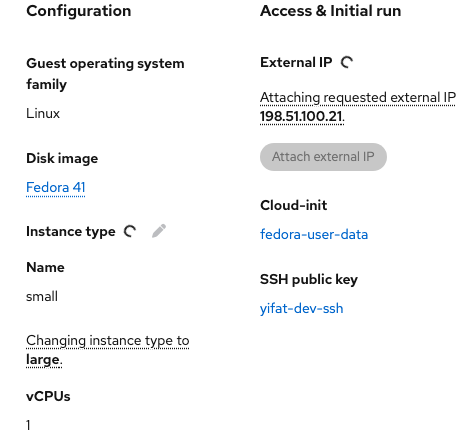
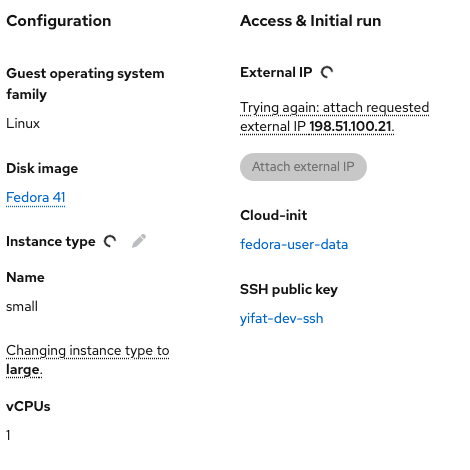
OSAC-7158: refresh retry screenshots and mockup links
Assisted-by: Cursor <cursoragent@cursor.com>

diff --git a/docs/vm-overview-ux-handoff.md b/docs/vm-overview-ux-handoff.md
@@ -3,7 +3,7 @@
 Contact: Yifat Friman Menchik, UXD  
 Google Doc: [VM Overview](https://docs.google.com/document/d/1Y8hjgE924owve0VXA3rkKqTYuB4sXKif8KhXyFL3hyQ/edit)  
 OSAC-7158 Google Doc: [VM configuration operations](https://docs.google.com/document/d/1KkHVqjNJ4lZl40X8aE1v589jDd7ilAle9NnaV13DIr4/edit)
-Interactive mocks: [0.4](https://osac-project.github.io/osac-ux/vmaas-ux-prototype-v0.4.html?v=c6c0274&role=admin&vm=indigo-quokka-89) · [0.5](https://osac-project.github.io/osac-ux/vmaas-ux-prototype.html?v=c15cd6a&role=admin&vm=indigo-quokka-89)
+Interactive mocks: [0.4](https://osac-project.github.io/osac-ux/vmaas-ux-prototype-v0.4.html?v=c6c0274&role=admin&vm=indigo-quokka-89) · [0.5](https://osac-project.github.io/osac-ux/vmaas-ux-prototype.html?v=ad7b00d&role=admin&vm=indigo-quokka-89)
 
 VM Overview shows the active instance type, CPU, and memory. Editing the instance type opens the name-first, two-line picker: each option has the resource name above CPU, memory, GPU count and readable model when present, and rate. Omit PCI hardware IDs from visible labels. The GPU specification still determines which resize targets are compatible. See the [resize handoff](osac-4281-vm-resize-handoff.md).
 
@@ -13,7 +13,7 @@ The Overview **Status** row shows the VM power state only. Keep active instance 
 
 ![Version 0.5 matching Instance type and External IP progress](screenshots/latest-ux/vm-config-aligned-progress-0.5-crop.png)
 
-The [scheduled-retry example](https://osac-project.github.io/osac-ux/vmaas-ux-prototype.html?v=c15cd6a&role=admin&vm=rhel-retry-cedar-29) keeps both targets in context, disables competing actions, and omits spinners until the next attempt begins.
+The [scheduled-retry example](https://osac-project.github.io/osac-ux/vmaas-ux-prototype.html?v=ad7b00d&role=admin&vm=rhel-retry-cedar-29) keeps both targets in context, disables competing actions, and omits spinners until the next attempt begins.
 
 ![Version 0.5 scheduled retry without active spinners](screenshots/latest-ux/vm-config-retry-scheduled-0.5-crop.png)
 
@@ -21,7 +21,7 @@ The [scheduled-retry example](https://osac-project.github.io/osac-ux/vmaas-ux-pr
 
 ![Version 0.5 failure alert and Resize again action](screenshots/latest-ux/vm-config-failure-0.5.png)
 
-The [ubuntu-copper-ibis-31 example](https://osac-project.github.io/osac-ux/vmaas-ux-prototype.html?v=c15cd6a&role=admin&vm=ubuntu-copper-ibis-31) combines a failed resize with external-IP attachment still running. The top alert covers the resize failure and offers **Resize again**; IP progress and its disabled Attach button stay beside External IP. In lists and cards, **Changes need attention** takes precedence, while the popover names both operations.
+The [ubuntu-copper-ibis-31 example](https://osac-project.github.io/osac-ux/vmaas-ux-prototype.html?v=ad7b00d&role=admin&vm=ubuntu-copper-ibis-31) combines a failed resize with external-IP attachment still running. The top alert covers the resize failure and offers **Resize again**; IP progress and its disabled Attach button stay beside External IP. In lists and cards, **Changes need attention** takes precedence, while the popover names both operations.
 
 ![Version 0.5 failed resize and active external-IP attachment](screenshots/latest-ux/vm-config-mixed-0.5.png)
 
@@ -37,11 +37,11 @@ Use three plain-language states for each operation in Details and the list/card 
 
 When the service supplies a safe reason for the preceding failure, show **Previous attempt failed: [reason]** in the operation popover. Show a retry attempt number only while that retry runs and only when supplied. If the service reports a known prerequisite that blocks a change, explain it in plain language in both places. Do not invent a blocker, reason, attempt count, or ETA. Keep **Stopped** as a power state, not a configuration failure. After success, update the active value, remove the outstanding status, and show a brief success toast; do not retain a Completed line.
 
-For example, [fedora-aqua-barnacle-58](https://osac-project.github.io/osac-ux/vmaas-ux-prototype.html?v=c15cd6a&role=admin&vm=fedora-aqua-barnacle-58) is resizing to **large** while attaching **198.51.100.21**. Its list status is **Changes in progress**, and the popover names both operations. In the [mixed failure example](https://osac-project.github.io/osac-ux/vmaas-ux-prototype.html?v=c15cd6a&role=admin&vm=ubuntu-copper-ibis-31), resize has failed while attachment continues, so **Changes need attention** takes priority.
+For example, [fedora-aqua-barnacle-58](https://osac-project.github.io/osac-ux/vmaas-ux-prototype.html?v=ad7b00d&role=admin&vm=fedora-aqua-barnacle-58) is resizing to **large** while attaching **198.51.100.21**. Its list status is **Changes in progress**, and the popover names both operations. In the [mixed failure example](https://osac-project.github.io/osac-ux/vmaas-ux-prototype.html?v=ad7b00d&role=admin&vm=ubuntu-copper-ibis-31), resize has failed while attachment continues, so **Changes need attention** takes priority.
 
 ![Version 0.5 simultaneous changes in the list popover](screenshots/latest-ux/vm-config-status-popover-concurrent-0.5.png)
 
-The [two-failure example](https://osac-project.github.io/osac-ux/vmaas-ux-prototype.html?v=c15cd6a&role=admin&vm=debian-cobalt-heron-41) shows resize and external-IP failure as separate bullets in one alert. The IP remains unattached; **Resize again** opens the resize dialog with **large** selected for review.
+The [two-failure example](https://osac-project.github.io/osac-ux/vmaas-ux-prototype.html?v=ad7b00d&role=admin&vm=debian-cobalt-heron-41) shows resize and external-IP failure as separate bullets in one alert. The IP remains unattached; **Resize again** opens the resize dialog with **large** selected for review.
 
 ![Version 0.5 two failed changes in one alert](screenshots/latest-ux/vm-config-two-failures-0.5.png)
 
